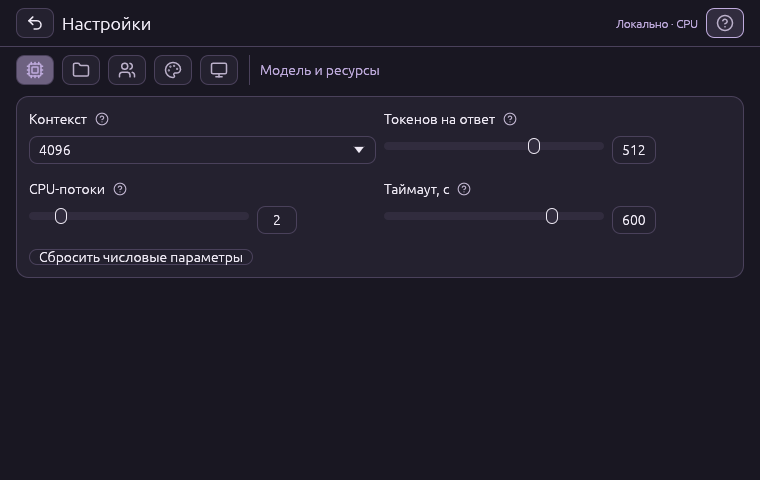
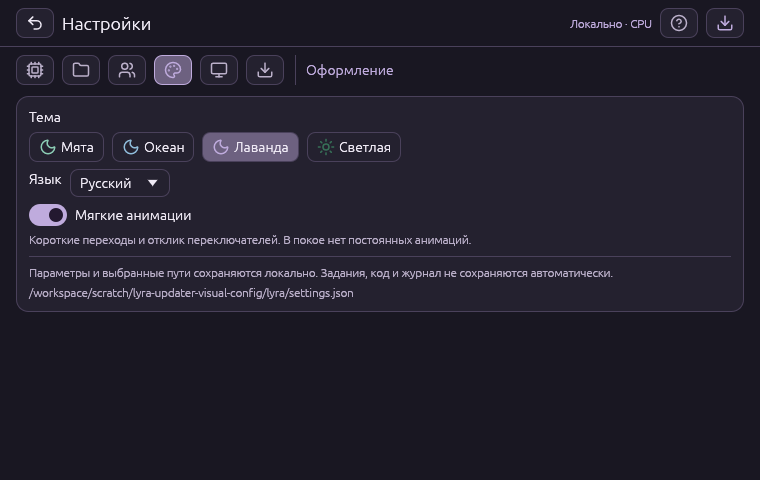
test: exercise helper with stripped shipping-size Linux binaries

diff --git a/tests/updater.rs b/tests/updater.rs
@@ -169,6 +169,19 @@ fn fixture(version: &str) -> PathBuf {
                 String::from_utf8_lossy(&output.stderr)
             );
         }
+        let helper = t.path().join("helper.exe");
+        fs::copy(env!("CARGO_BIN_EXE_lyra-desktop"), &helper).unwrap();
+        // Linux DWARF makes the debug GUI hundreds of MiB. Ship builds already strip it.
+        // Exercise the exact helper code with shipping-like file size, keeping real timeouts.
+        #[cfg(target_os = "linux")]
+        assert!(
+            Command::new("strip")
+                .arg("--strip-debug")
+                .arg(&helper)
+                .status()
+                .unwrap()
+                .success()
+        );
         t
     });
     t.path().join(format!("{version}.exe"))
@@ -232,7 +245,7 @@ fn native_update(fail_health: bool, lock_cli: bool) {
         pkg,
         &root,
         parent.0.id(),
-        Path::new(env!("CARGO_BIN_EXE_lyra-desktop")),
+        &fixture("0.0.1").parent().unwrap().join("helper.exe"),
         &cache,
         true,
     )

diff --git a/docs/plans/0007-updater.md b/docs/plans/0007-updater.md
@@ -39,3 +39,10 @@ Debian 13 x64 / Rust 1.99.1: fmt, Clippy -D warnings, 46 обычных tests,
 CI packager также проверяет версии обоих готовых release EXE.
 Windows locked-file test выполняется только в нативном Windows CI.
 Релиз не опубликован; draft workflow подготовлен по tag, main push релиз не создаёт.
+
+CI обнаружил превышение 15-секундного handshake в Linux debug-файлe с DWARF
+(свыше 400 MiB). Тестовая копия реального helper теперь проходит strip --strip-debug,
+как release-поставка; код и production timeout не меняются. Локально та же группа
+6 updater-тестов: 22.04 с до, 8.33 с после. Нативный Windows test job первой ревизии
+прошёл все тесты, включая locked CLI rollback; финальный main run проверяется отдельно.
+Обновлены фактические native Linux скриншоты dev.3, без модели/личного проекта.
